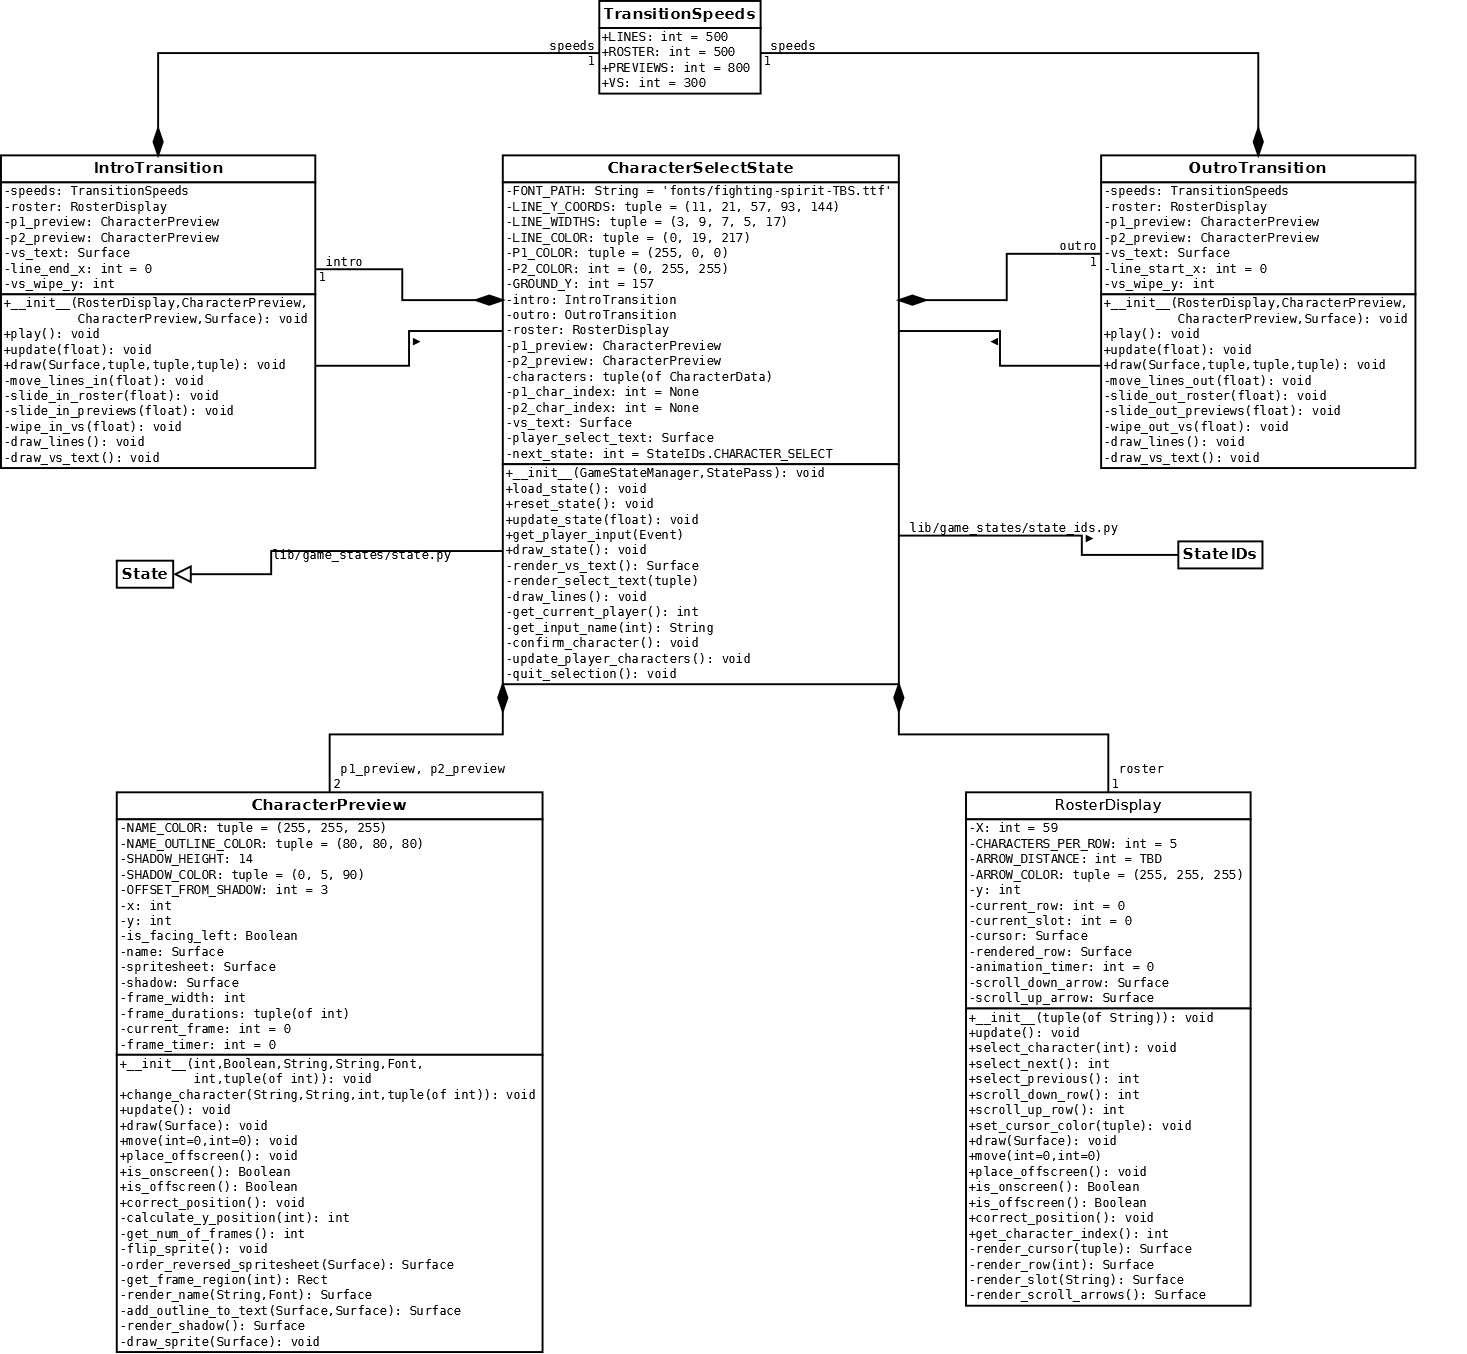
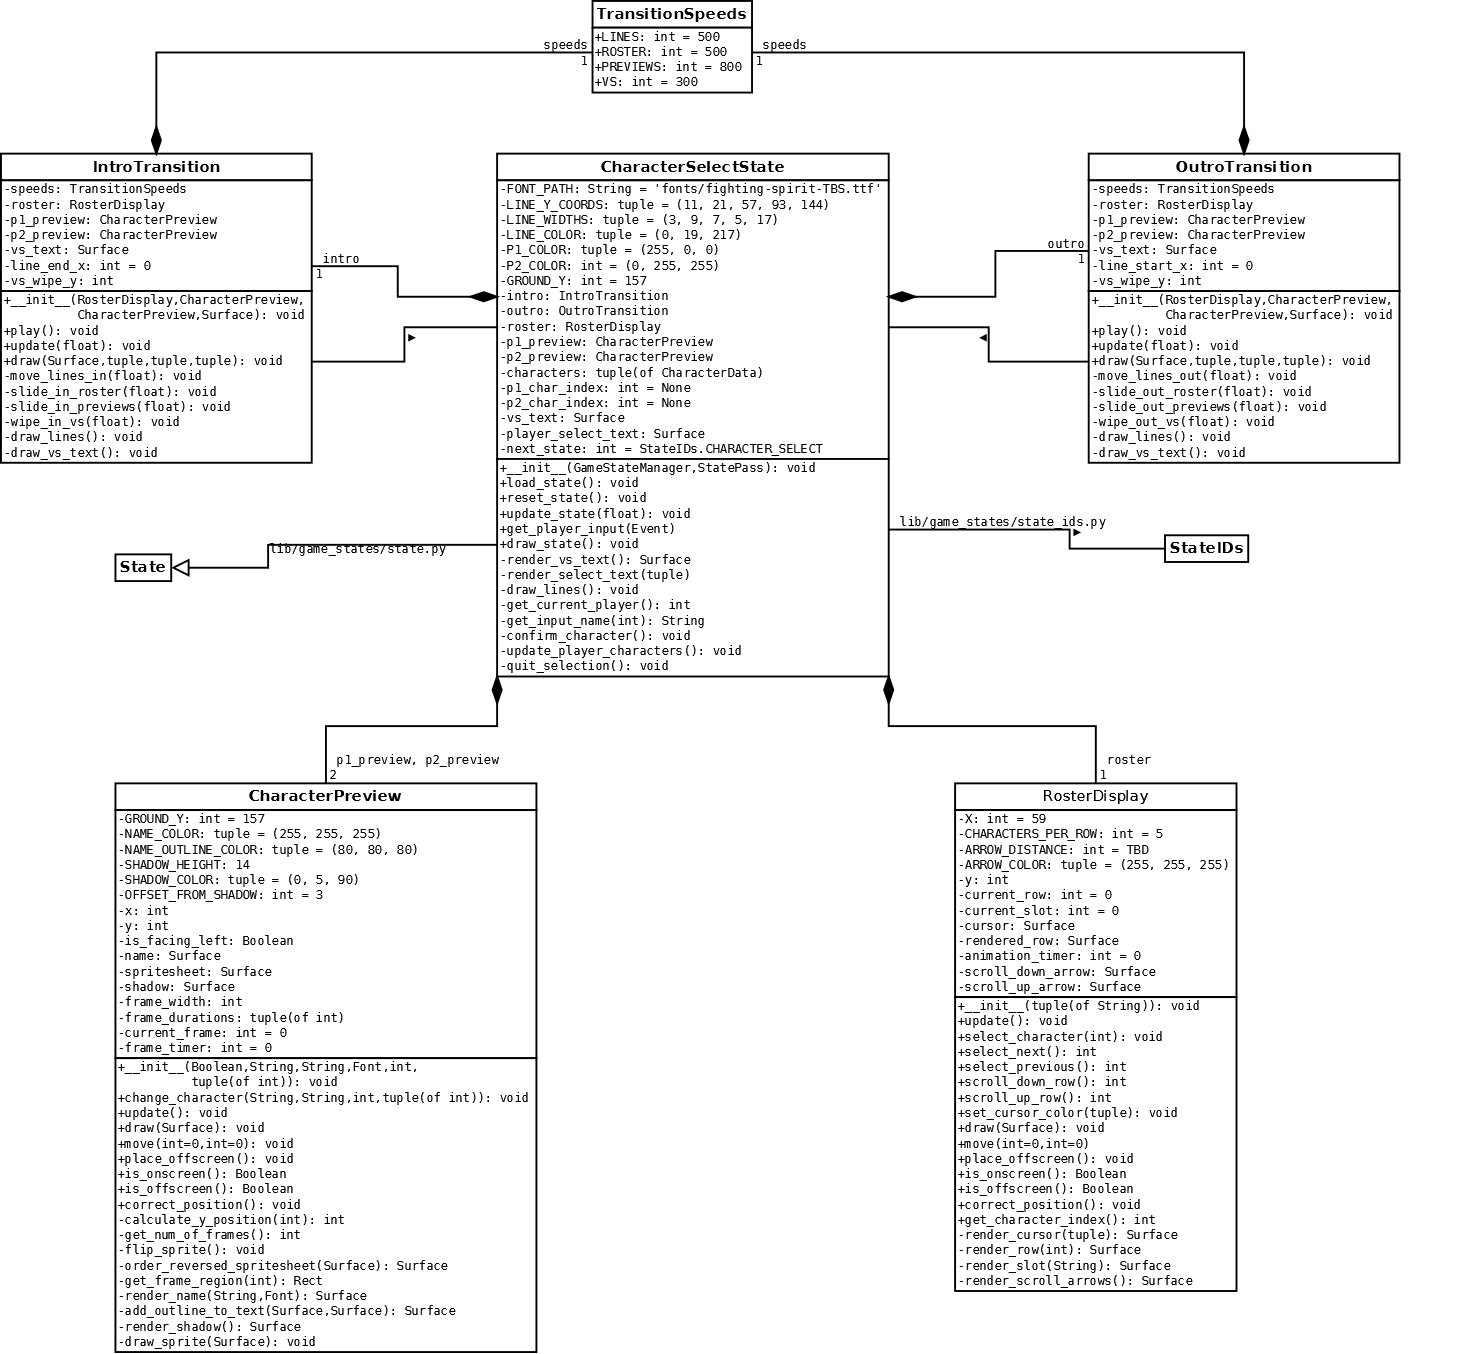
CharacterPreview: Turn ground_y into a constant
Since the ground will always be in the same position regardless of the
character, there's no point in needing to pass it during
initialization.

diff --git a/lib/game_states/character_select_state.py b/lib/game_states/character_select_state.py
@@ -12,6 +12,8 @@ class CharacterPreview(object):
     name.
 
     Class Constants:
+        GROUND_Y: An integer for the y-position of the ground upon which
+            the character will be standing, relative to the screen.
         NAME_COLOR: A tuple containing the RGB values for the name
             text's color.
         NAME_OUTLINE_COLOR: A tuple containing the RGB values for the
@@ -46,19 +48,18 @@ class CharacterPreview(object):
         frame_timer: An integer for the number of update cycles elapsed
             since the current animation frame was shown.
     """
+    GROUND_Y = 157
     NAME_COLOR = (255, 255, 255)
     NAME_OUTLINE_COLOR = (80, 80, 80)
     SHADOW_HEIGHT = 14
     SHADOW_COLOR = (0, 5, 90)
     OFFSET_FROM_SHADOW = 3
 
-    def __init__(self, ground_y, is_facing_left, spritesheet_path, name,
+    def __init__(self, is_facing_left, spritesheet_path, name,
                  name_font, frame_width, frame_durations):
         """Declare and initialize instance variables.
 
         Args:
-            ground_y: An integer for the y-position of the ground where
-                the character will be standing, relative to the screen.
             is_facing_left: A Boolean indicating whether the character
                 is facing to the left, rather than to the right (which
                 is the default direction for characters in this game).
@@ -84,13 +85,13 @@ class CharacterPreview(object):
         self.frame_timer = 0
         self.shadow = self.render_shadow()
         self.x = 0
-        self.y = self.calculate_y_position(ground_y)
+        self.y = self.calculate_y_position()
 
         if is_facing_left:
             self.flip_sprite()
             self.correct_position()
 
-    def calculate_y_position(self, ground_y):
+    def calculate_y_position(self):
         """Determine the vertical positioning of the character so that
         the bottom edge of the sprite (usually their feet) is touching
         the ground.
@@ -103,7 +104,7 @@ class CharacterPreview(object):
             An integer for the character's y-position.
         """
         character_height = self.spritesheet.get_height()
-        y = ground_y - character_height
+        y = self.GROUND_Y - character_height
         return y
 
     def correct_position(self):
